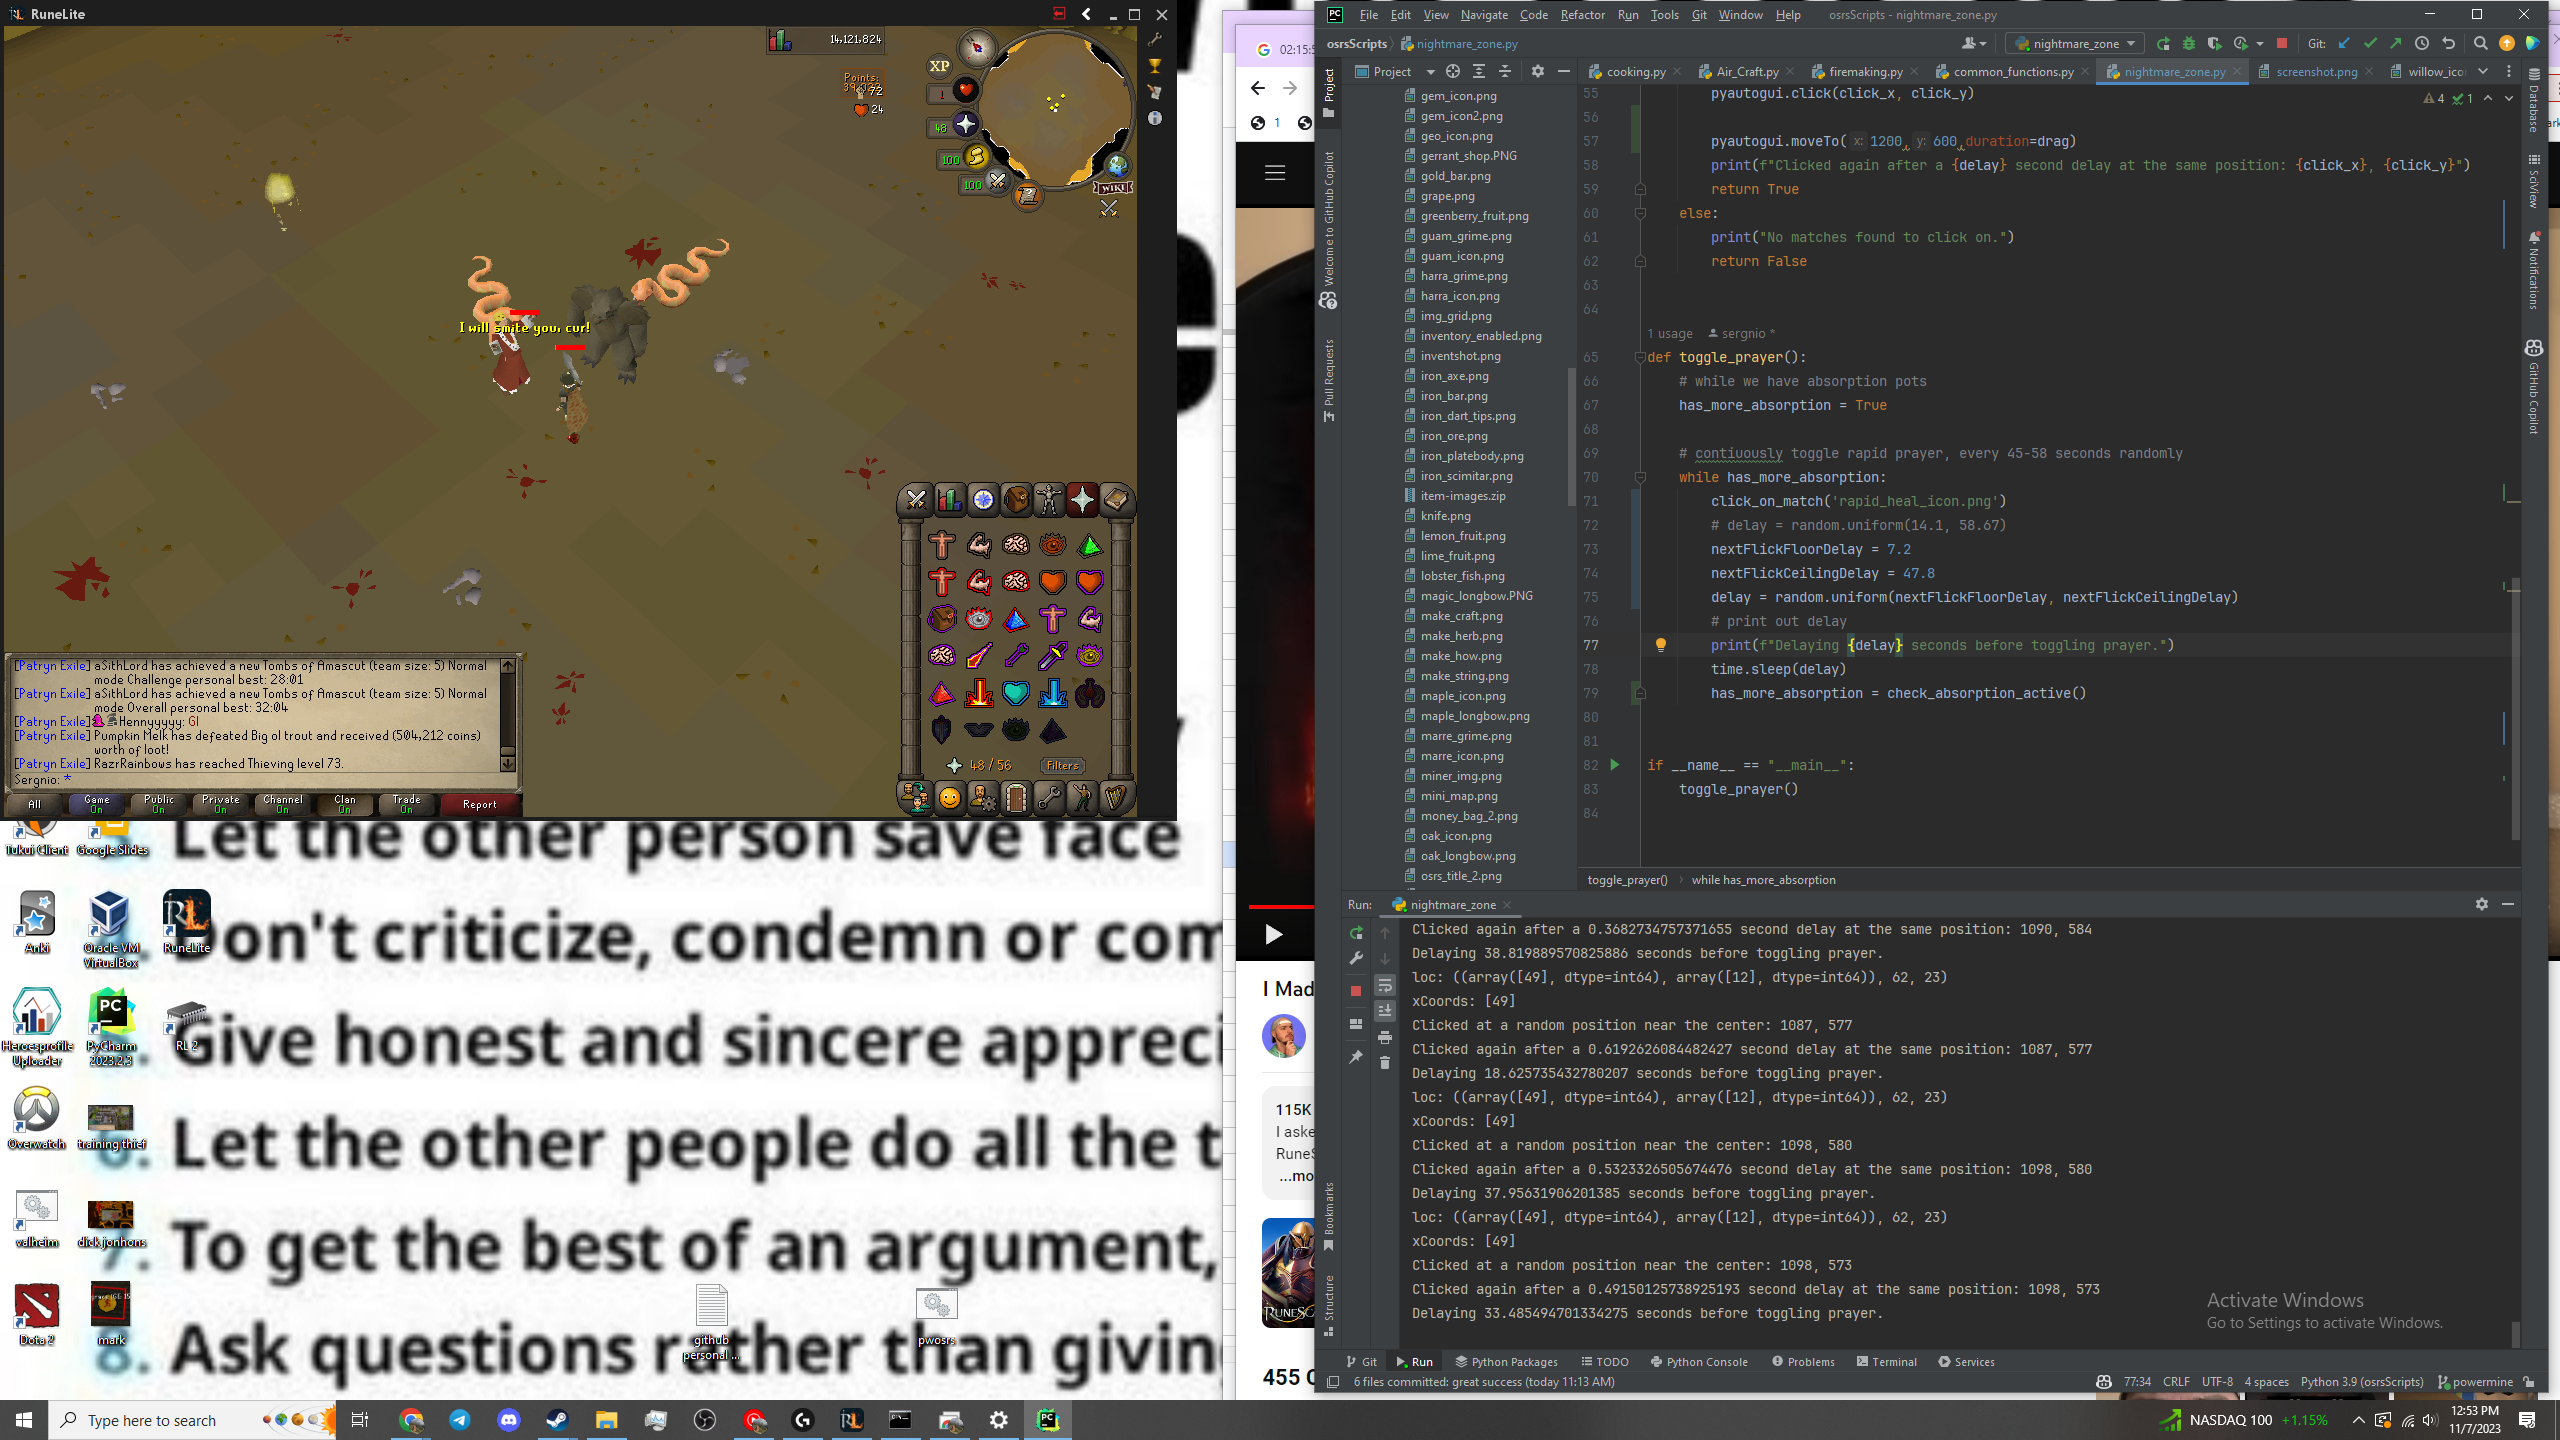
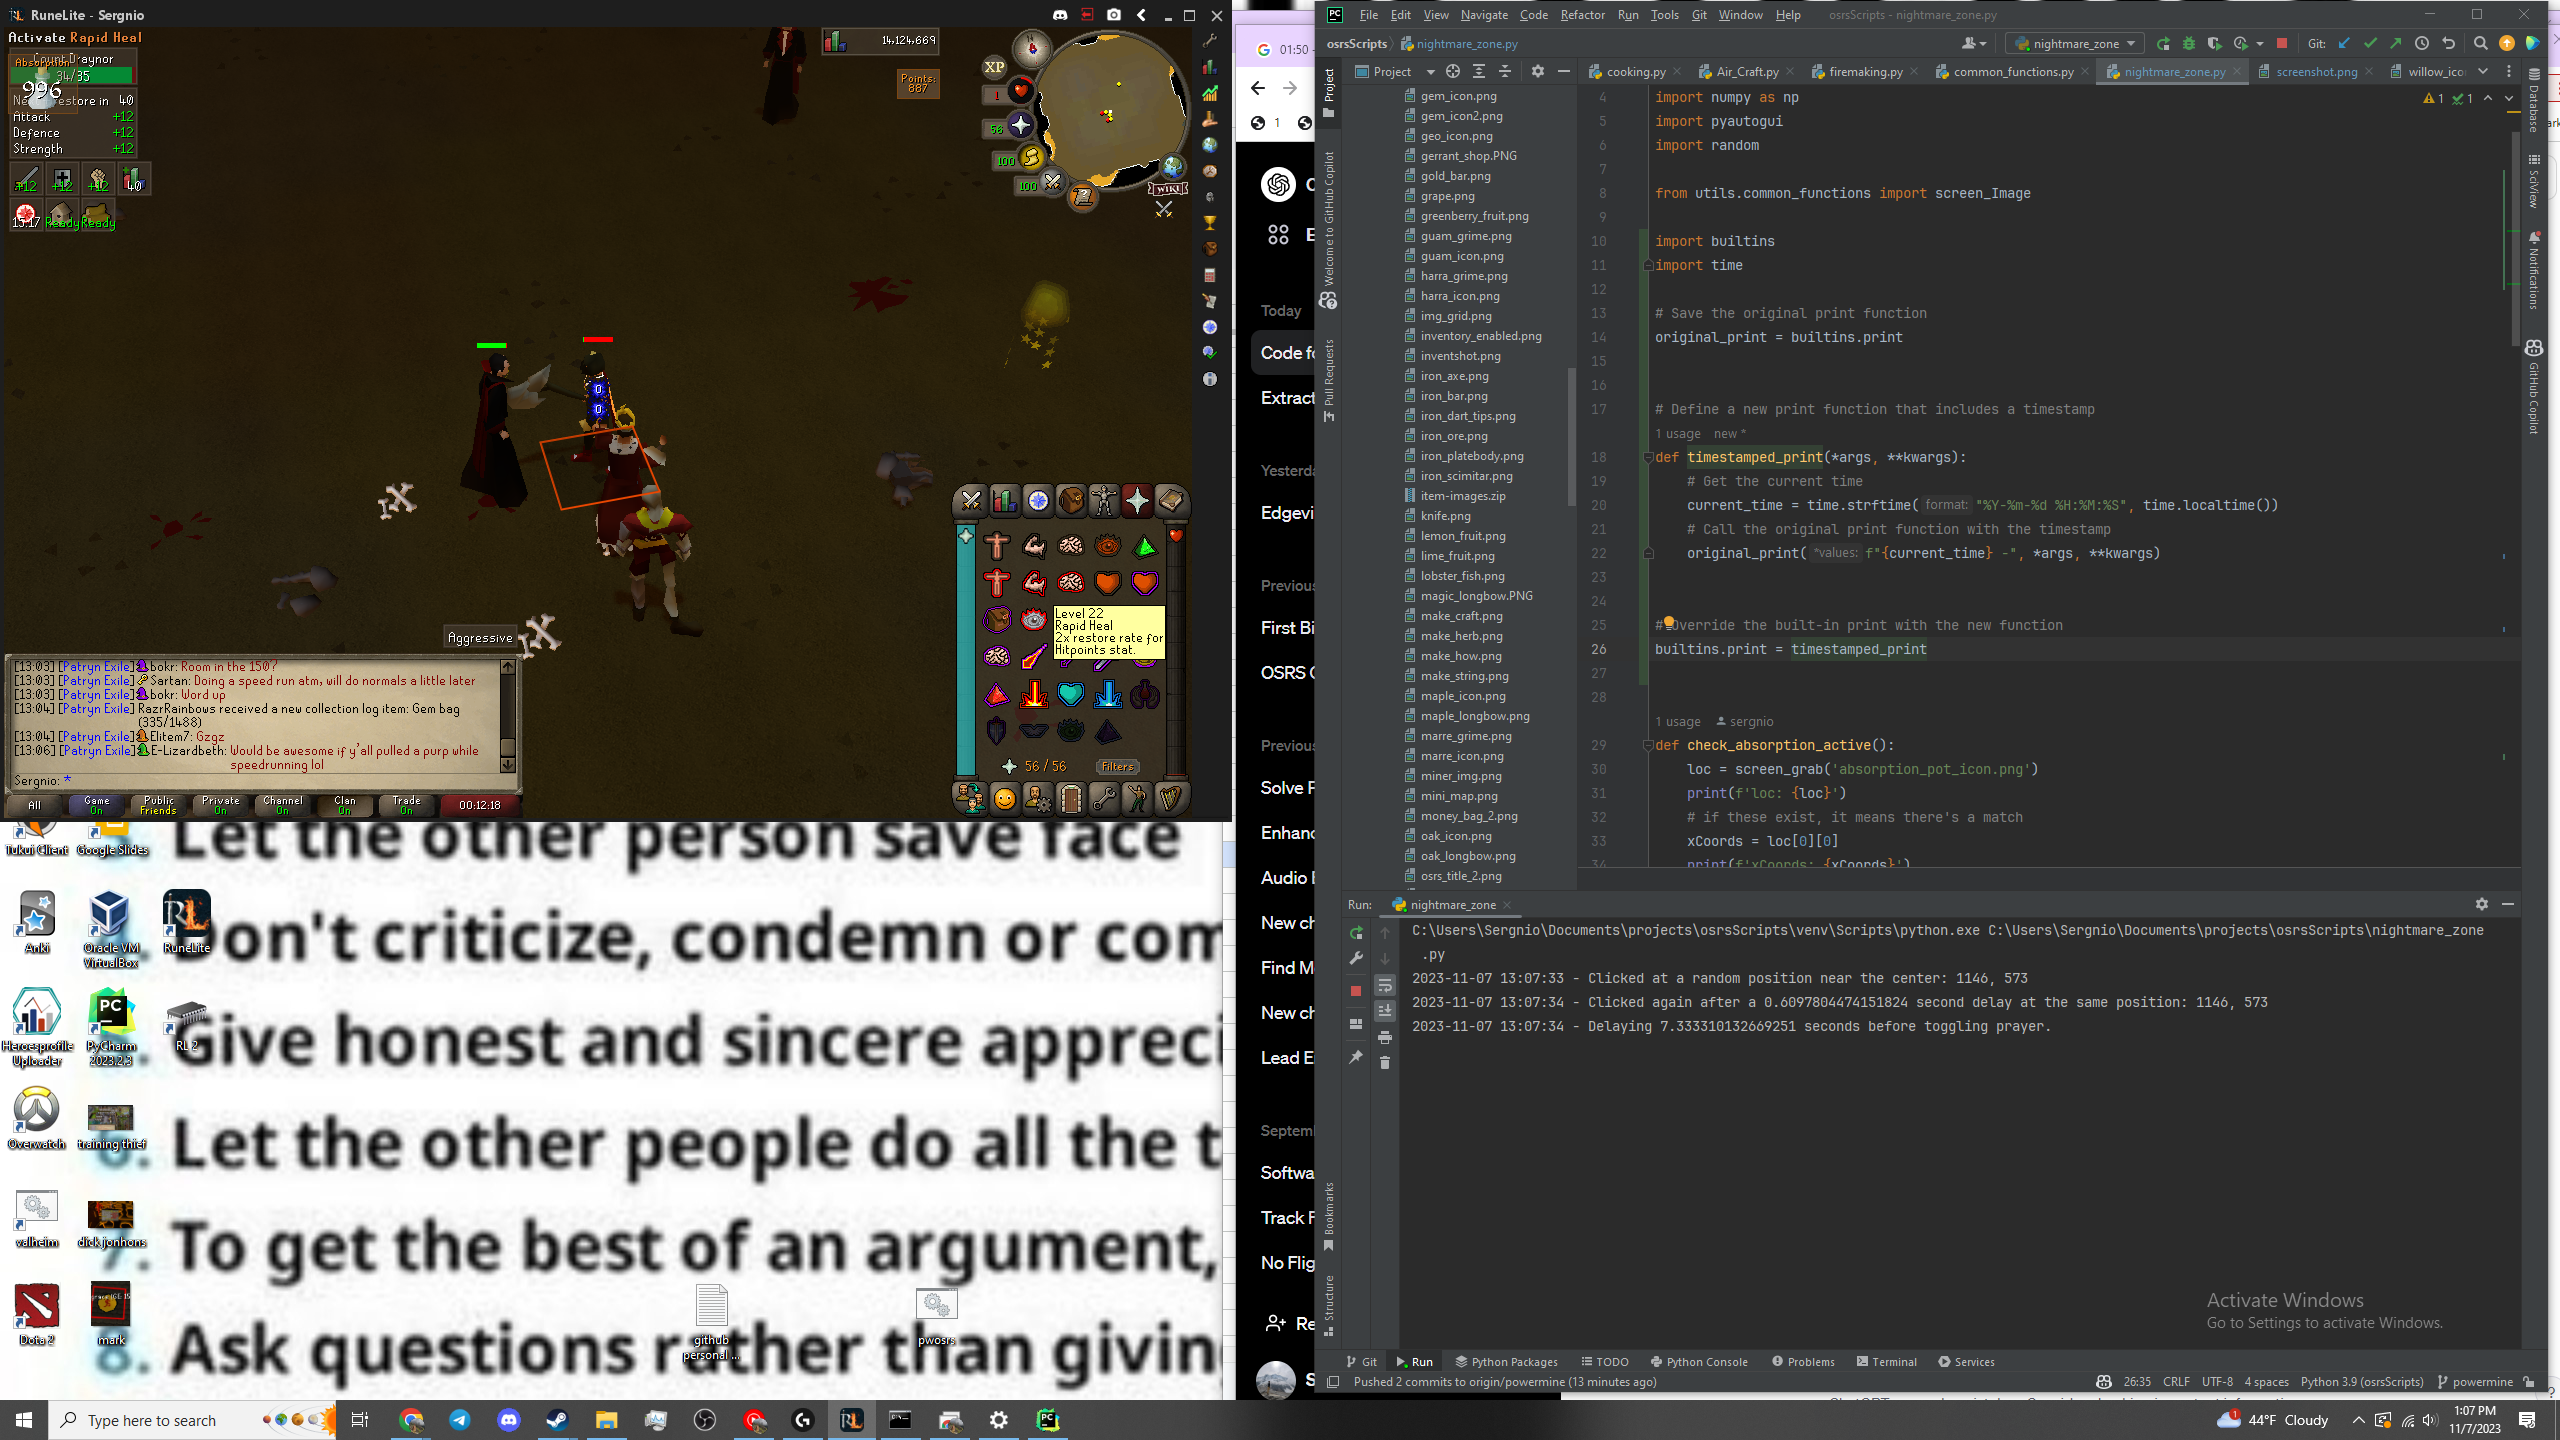
new timestamps

diff --git a/nightmare_zone.py b/nightmare_zone.py
@@ -7,6 +7,24 @@ import random
 
 from utils.common_functions import screen_Image
 
+import builtins
+import time
+
+# Save the original print function
+original_print = builtins.print
+
+
+# Define a new print function that includes a timestamp
+def timestamped_print(*args, **kwargs):
+    # Get the current time
+    current_time = time.strftime("%Y-%m-%d %H:%M:%S", time.localtime())
+    # Call the original print function with the timestamp
+    original_print(f"{current_time} -", *args, **kwargs)
+
+
+# Override the built-in print with the new function
+builtins.print = timestamped_print
+
 
 def check_absorption_active():
     loc = screen_grab('absorption_pot_icon.png')
@@ -43,7 +61,7 @@ def click_on_match(image, threshold=0.7):
         click_x, click_y = center_x + offset_x, center_y + offset_y
         drag = random.uniform(.1, .3)
 
-        pyautogui.moveTo(click_x,click_y,duration=drag)
+        pyautogui.moveTo(click_x, click_y, duration=drag)
         pyautogui.click(click_x, click_y)
         print(f"Clicked at a random position near the center: {click_x}, {click_y}")
 
@@ -54,7 +72,7 @@ def click_on_match(image, threshold=0.7):
         # Perform the second click at the same random position
         pyautogui.click(click_x, click_y)
 
-        pyautogui.moveTo(1200,600,duration=drag)
+        pyautogui.moveTo(1200, 600, duration=drag)
         print(f"Clicked again after a {delay} second delay at the same position: {click_x}, {click_y}")
         return True
     else:
@@ -72,6 +90,8 @@ def toggle_prayer():
         # delay = random.uniform(14.1, 58.67)
         nextFlickFloorDelay = 7.2
         nextFlickCeilingDelay = 47.8
+        # nextFlickFloorDelay = 2.2
+        # nextFlickCeilingDelay = 5.8
         delay = random.uniform(nextFlickFloorDelay, nextFlickCeilingDelay)
         # print out delay
         print(f"Delaying {delay} seconds before toggling prayer.")
